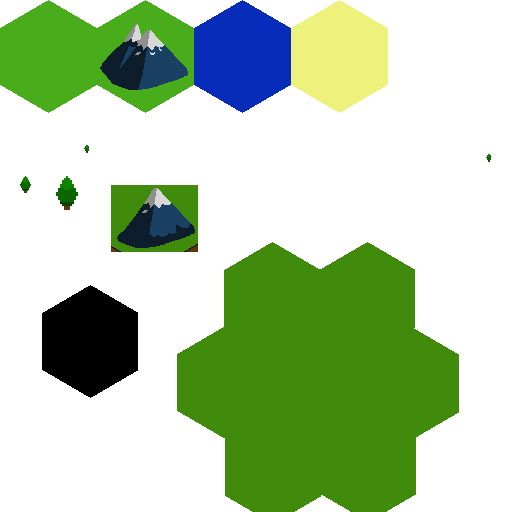
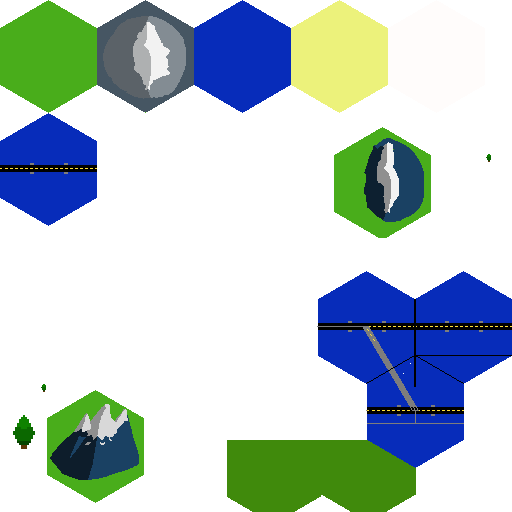
Added bridge logic between continents

diff --git a/Strategos/MapGenerator.cs b/Strategos/MapGenerator.cs
@@ -2,7 +2,7 @@
 using SFML.Graphics;
 public class MapGenerator
 {
-    private const int POLAR_LIMIT = 18;
+    private const int POLAR_LIMIT = 20;
     private const int MAP_HEIGHT = 25;
     private const int MAP_WIDTH = 25;
     private static Dictionary<double, TileType> tileNoiseLookup = new Dictionary<double, TileType>
@@ -31,13 +31,38 @@ public class MapGenerator
         }
         hexStorage.UpdateMinMax();
     }
+    public static void GenerateBridgeBetweenRegions(HexStorage hexStorage, Region region1, Region region2)
+    {
+        List<Hex> hexes = Region.GetClosestHexesInTwoRegions(hexStorage, region1, region2);
+        Cube start = Cube.AxialToCube(new Vector2f(hexes[0].Q, hexes[0].R));
+        Cube end = Cube.AxialToCube(new Vector2f(hexes[1].Q, hexes[1].R));
+        List<Cube> path = Cube.Linedraw(start, end);
+        foreach (Cube cube in path)
+        {
+            Hex hex = Hex.GetFromCube(cube, hexStorage);
+            hex.Type = TileType.Bridge;
+        }
+    }
+    public static void GenerateBridges(HexStorage hexStorage, List<Region> regionList)
+    {
+
+        foreach (Region region in regionList)
+        {
+            foreach (Region neighbor in regionList)
+            {
+                if (region != neighbor)
+                {
+                    GenerateBridgeBetweenRegions(hexStorage, region, neighbor);
+                }
+            }
+        }
+    }
     public static void GenerateMap(HexStorage hexStorage)
     {
-        GenerateContinent(hexStorage, 0, -15, 8, 8); 
-        GenerateContinent(hexStorage, 5, -15, 8, 4);
-        GenerateContinent(hexStorage, -5, 0, 4, 8);
-        GenerateContinent(hexStorage, 8, 0, 4, 4);
-        GenerateContinent(hexStorage, -2, 15, 4, 4);
+        GenerateContinent(hexStorage, -5, -5, 8, 4);
+        GenerateContinent(hexStorage, 15, -5, 4, 8);
+        GenerateContinent(hexStorage, 15, 0, 4, 4);
+        GenerateContinent(hexStorage, -10, 5, 4, 2);
         GenerateWaterInCircle(0, 0, hexStorage, 25);
 
     }
@@ -55,55 +80,30 @@ public class MapGenerator
             CreateHexCircle(qOffset + q, rOffset + r, hexStorage, radius);
         }
     }
-    public static void GenerateHexesSplats(HexStorage hexStorage)
+    public static void CreateSnowAtPoles(HexStorage hexStorage)
     {
         Random random = new Random();
-
-        int numSplats = random.Next(5, 15);
-        for (int i = 0; i < numSplats; i++)
+        for (int i = 0; i < MAP_HEIGHT + 1; i++)
         {
-            int radius = random.Next(2, 6);
-            int qOffset = random.Next(-10, 10);
-            int rOffset = random.Next(-5, 5);
-            CreateHexCircle(qOffset, rOffset, hexStorage, radius);
-        }
-        GenerateWaterInCircle(0, 0, hexStorage, 25);
-        CreateBeaches(hexStorage);
-    }
-    public static void GenerateWater(HexStorage hexStorage, int radius)
-    {
-        PerlinNoise Noise = new PerlinNoise(Strategos.noiseRepeat);
-        Random rand = new Random(Strategos.noiseSeed);
-        Hex hex = new Hex(0, 0);
-        hexStorage.AddHex(hex);
-        for (int i = -radius; radius > i; i++)
-        {
-            for (int j = -radius; radius > j; j++)
+            List<Hex> hexes = hexStorage.GetHexesWithRCoord(i);
+            foreach (Hex hex in hexes)
             {
-                hex = new Hex(i, j);
-                hex.Type = TileType.Water;
-                hexStorage.AddHex(hex);
+                if (Math.Abs(hex.R) + random.Next(0, 3) > POLAR_LIMIT)
+                {
+                    hex.Type = TileType.Snow;
+                }
             }
         }
-       
-        hexStorage.UpdateMinMax();
     }
     public static void CreateHexCircle(int q, int r, HexStorage hexStorage, int radius)
     {
-        List<Cube> cubes = Cube.CubesInRange(new Cube(q, r, -q -r), radius);
-        //Hex hex = new Hex(r, q);
-        //hex.Type = TileType.Grass;
-        //hexStorage.AddHex(hex);
-
+        List<Cube> cubes = Cube.CubesInRange(new Cube(q, r, -q - r), radius);
+        Random random = new Random();
         foreach (Cube cube in cubes)
         {
             Hex hex = new Hex((int)cube.Q, (int)cube.R);
             hex.Type = TileType.Grass;
-            if (Math.Abs(cube.R) > POLAR_LIMIT)
-            {
-                hex.Type = TileType.Snow;
-            }
-            
+
             hexStorage.AddHex(hex);
         }
         hexStorage.UpdateMinMax();

diff --git a/Strategos/Region.cs b/Strategos/Region.cs
@@ -51,6 +51,26 @@ public class Region
         }
         return region;
     }
+    public static List<Hex> GetClosestHexesInTwoRegions(HexStorage hexStorage, Region region1, Region region2)
+    {
+        List<Hex> closestHexes = new List<Hex>();
+        int distance = int.MaxValue;
+        foreach (Hex hex1 in region1.Hexes)
+        {
+            foreach (Hex hex2 in region2.Hexes)
+            {
+                int newDistance = Hex.Distance(hex1, hex2);
+                if (newDistance < distance)
+                {
+                    distance = newDistance;
+                    closestHexes.Clear();
+                    closestHexes.Add(hex1);
+                    closestHexes.Add(hex2);
+                }
+            }
+        }
+        return closestHexes;
+    }
     public static List<Region> GenerateRegions(HexStorage hexStorage)
     {
         List<Region> regions = new List<Region>();

diff --git a/Strategos/Hex.cs b/Strategos/Hex.cs
@@ -51,6 +51,7 @@ public class Hex
         tileIntRect[TileType.Water] = new IntRect(194, 0, Strategos.TILE_WIDTH + 2, Strategos.TILE_HEIGHT + 2);
         tileIntRect[TileType.Beach] = new IntRect(291, 0, Strategos.TILE_WIDTH + 2, Strategos.TILE_HEIGHT + 2);
         tileIntRect[TileType.Snow] = new IntRect(388, 0, Strategos.TILE_WIDTH + 2, Strategos.TILE_HEIGHT + 2);
+        tileIntRect[TileType.Bridge] = new IntRect(0, 113, Strategos.TILE_WIDTH + 2, Strategos.TILE_HEIGHT + 2);
 
         tilePassable = new Dictionary<TileType, bool>();
         tilePassable[TileType.Grass] = true;
@@ -58,6 +59,7 @@ public class Hex
         tilePassable[TileType.Water] = false;
         tilePassable[TileType.Beach] = true;
         tilePassable[TileType.Snow] = true;
+        tilePassable[TileType.Bridge] = true;
     }
     public bool HasNeighbor(Direction direction, HexStorage hexStorage)
     {

diff --git a/Strategos/InputHandler.cs b/Strategos/InputHandler.cs
@@ -43,6 +43,8 @@ public class InputHandler
             MapGenerator.GenerateMap(hexStorage);
             Strategos.regions = Region.GenerateRegions(hexStorage);
             MapGenerator.CreateBeaches(hexStorage);
+            MapGenerator.CreateSnowAtPoles(hexStorage);
+            MapGenerator.GenerateBridges(hexStorage, Strategos.regions);
         }
         if (e.Code == Keyboard.Key.Insert)
         {

diff --git a/Strategos/Enums/TileType.cs b/Strategos/Enums/TileType.cs
@@ -3,5 +3,6 @@
     Mountain,
     Water,
     Beach,
-    Snow
+    Snow,
+    Bridge
 }
